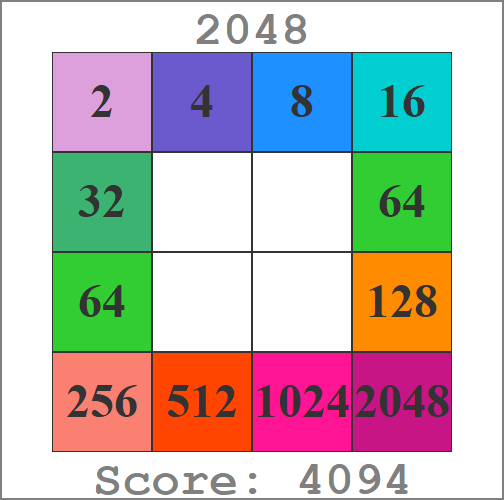
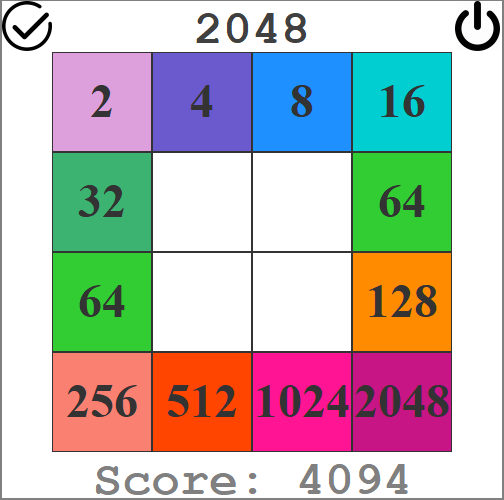
AI 😈

Changed region(s): [[0.3869, 0.0, 0.625, 0.09], [0.0, 0.0, 0.119, 0.12], [0.8929, 0.0, 1.0, 0.12]]

diff --git a/src/main/java/com/mycompany/game2048/Design.java b/src/main/java/com/mycompany/game2048/Design.java
@@ -196,7 +196,7 @@ public class Design extends javax.swing.JFrame {
         Game2048.setText("2048");
 
         shutdown.setHorizontalAlignment(javax.swing.SwingConstants.CENTER);
-        shutdown.setIcon(new javax.swing.ImageIcon("C:\\Users\\Ahmed\\OneDrive\\Documents\\Projects\\Game2048\\img\\shutdown-icon.png")); // NOI18N
+        shutdown.setIcon(new javax.swing.ImageIcon("C:\\Users\\Ahmed\\OneDrive\\Documents\\Projects\\2048-AI\\img\\shutdown-icon.png")); // NOI18N
         shutdown.setToolTipText("Close!");
         shutdown.setCursor(new java.awt.Cursor(java.awt.Cursor.HAND_CURSOR));
         shutdown.addMouseListener(new java.awt.event.MouseAdapter() {
@@ -206,7 +206,7 @@ public class Design extends javax.swing.JFrame {
         });
 
         solve.setHorizontalAlignment(javax.swing.SwingConstants.CENTER);
-        solve.setIcon(new javax.swing.ImageIcon("C:\\Users\\Ahmed\\OneDrive\\Documents\\Projects\\Game2048\\img\\solve-icon.png")); // NOI18N
+        solve.setIcon(new javax.swing.ImageIcon("C:\\Users\\Ahmed\\OneDrive\\Documents\\Projects\\2048-AI\\img\\solve-icon.png")); // NOI18N
         solve.setToolTipText("Solve with AI!");
         solve.setCursor(new java.awt.Cursor(java.awt.Cursor.HAND_CURSOR));
         solve.addMouseListener(new java.awt.event.MouseAdapter() {
